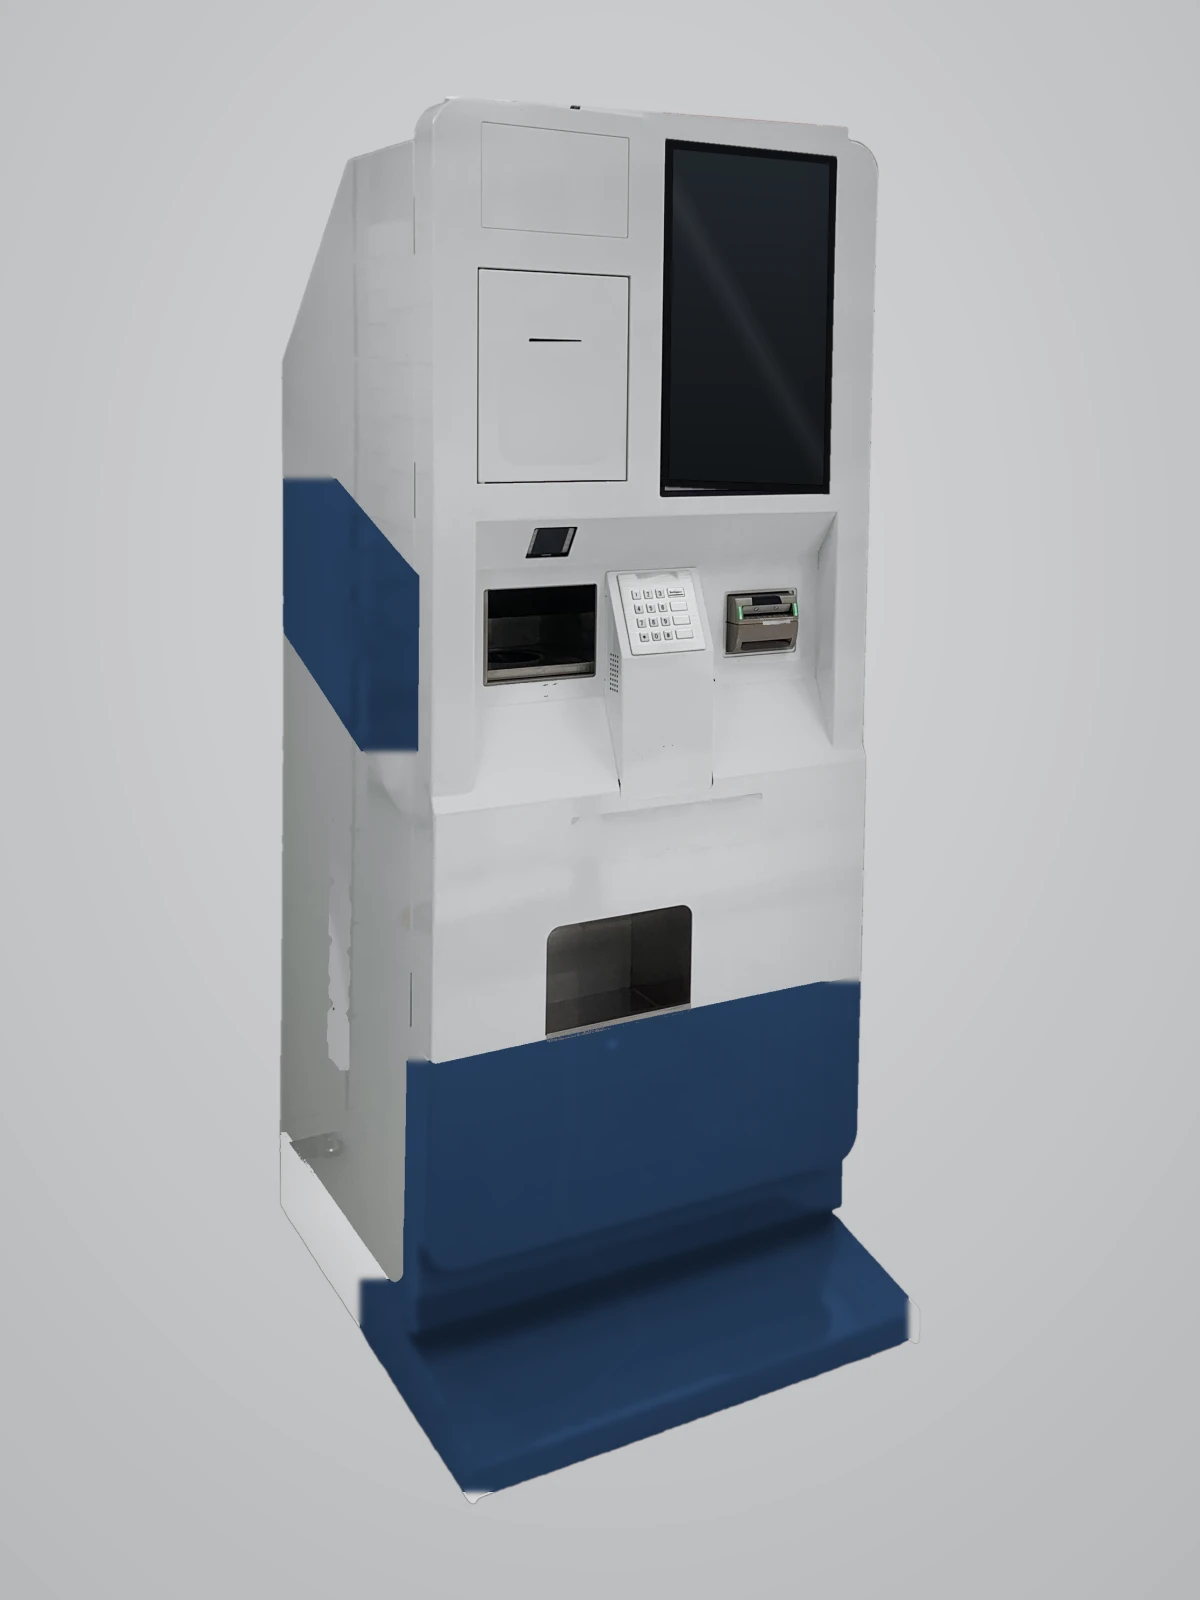
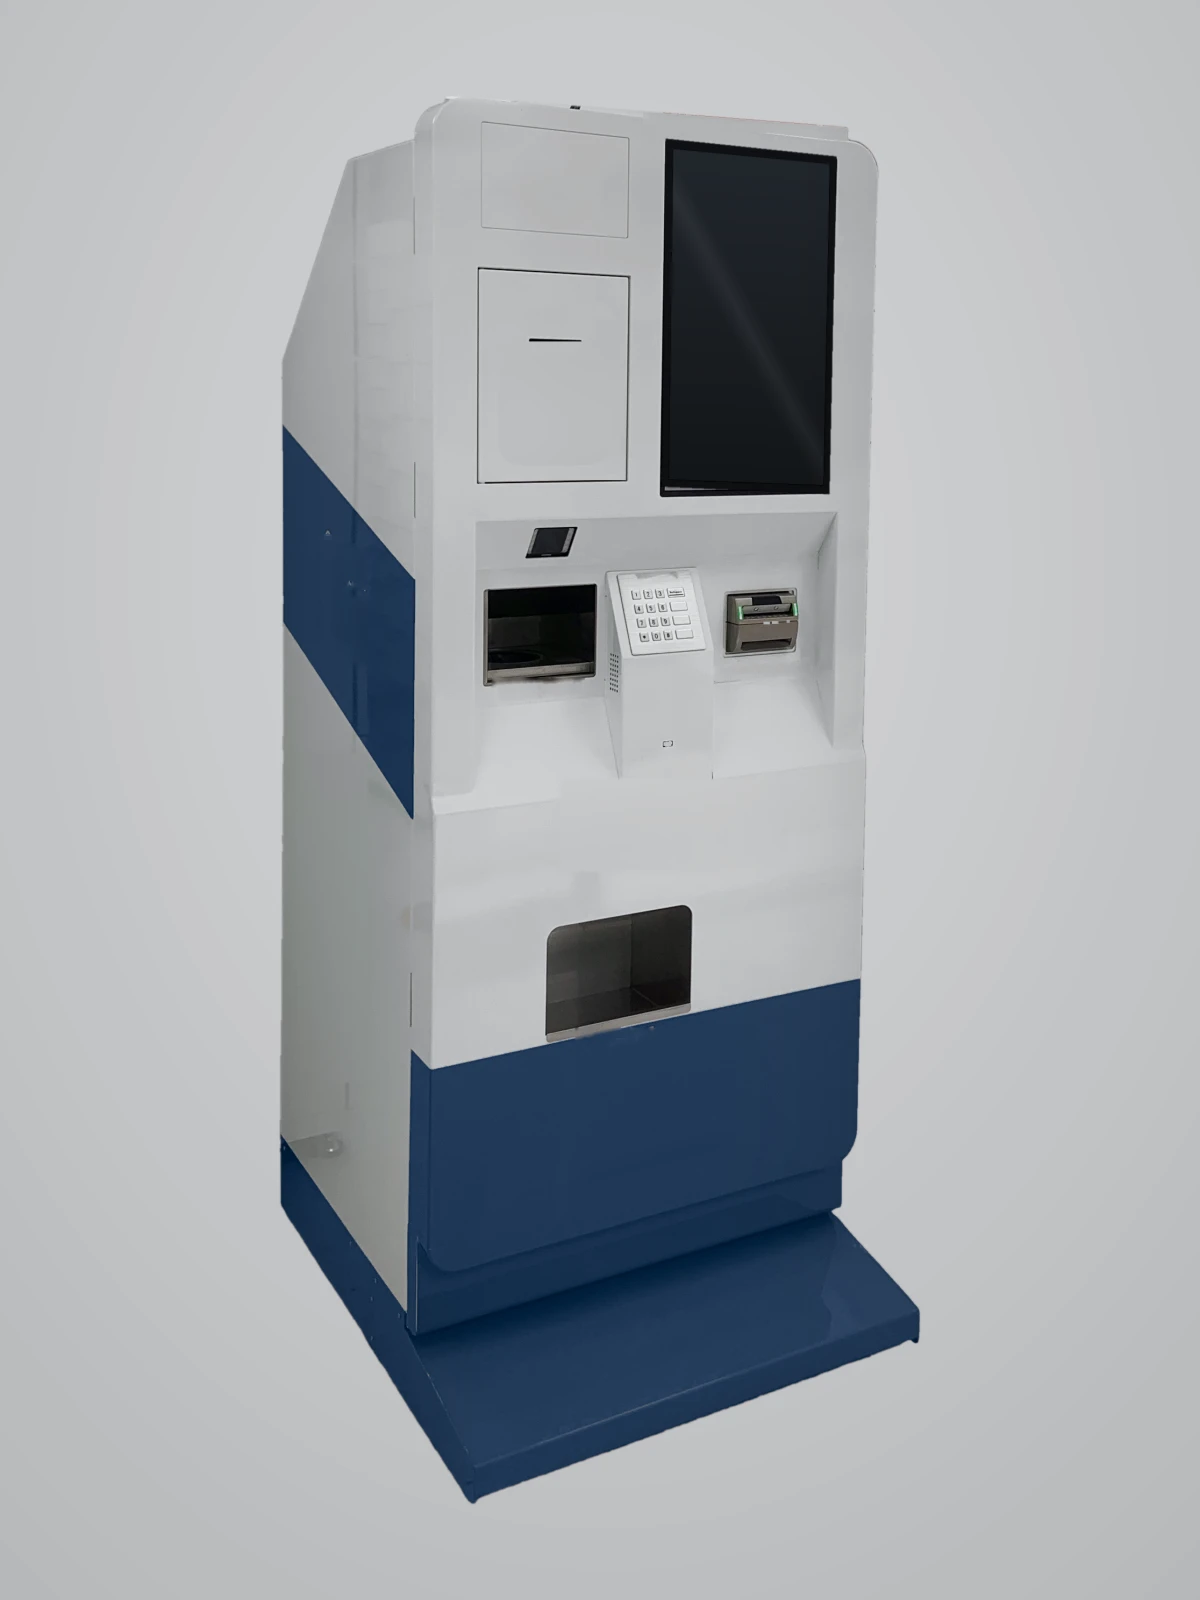
Kiosk photos: shading-preserving navy repaint, lettering removed cleanly; SI: Edge AI self-service kiosk heading

diff --git a/jp/ipc.html b/jp/ipc.html
@@ -287,7 +287,7 @@ header 結束
 <section class="sx-sec alt"><div class="container">
 <h2>受付精算キオスク</h2>
 <p class="lede">台湾最大の小売システムの荷物受取店舗で稼働中。自社で設計・組立・テストを行い、筐体の色、ロゴ、搭載モジュールはお客様ごとにカスタマイズします。</p>
-<div class="sx-product"><figure><img class="sx-main" src="/img/solutions/kiosk-white.webp?v=4" alt="SMC 受付精算キオスク · 正面" width="1200" height="1600"><div class="sx-thumbs"><button type="button" aria-pressed="true" data-src="/img/solutions/kiosk-white.webp?v=4" data-alt="SMC 受付精算キオスク · 正面"><img src="/img/solutions/kiosk-white.webp?v=4" alt="" loading="lazy"></button><button type="button" aria-pressed="false" data-src="/img/solutions/kiosk-white-angle.webp?v=4" data-alt="SMC 受付精算キオスク · 斜め"><img src="/img/solutions/kiosk-white-angle.webp?v=4" alt="" loading="lazy"></button></div></figure><ul>
+<div class="sx-product"><figure><img class="sx-main" src="/img/solutions/kiosk-white.webp?v=5" alt="SMC 受付精算キオスク · 正面" width="1200" height="1600"><div class="sx-thumbs"><button type="button" aria-pressed="true" data-src="/img/solutions/kiosk-white.webp?v=5" data-alt="SMC 受付精算キオスク · 正面"><img src="/img/solutions/kiosk-white.webp?v=5" alt="" loading="lazy"></button><button type="button" aria-pressed="false" data-src="/img/solutions/kiosk-white-angle.webp?v=5" data-alt="SMC 受付精算キオスク · 斜め"><img src="/img/solutions/kiosk-white-angle.webp?v=5" alt="" loading="lazy"></button></div></figure><ul>
 <li>縦型タッチパネルとガイド付きUI</li>
 <li>レシートプリンター</li>
 <li>硬貨投入口とお釣り</li>

diff --git a/ipc.html b/ipc.html
@@ -287,7 +287,7 @@ header 結束
 <section class="sx-sec alt"><div class="container">
 <h2>Check-in and payment kiosk</h2>
 <p class="lede">In service at parcel pickup stores of Taiwan's largest retail system. Designed, assembled and tested in-house; enclosure colour, branding and modules are customized for each customer.</p>
-<div class="sx-product"><figure><img class="sx-main" src="/img/solutions/kiosk-white.webp?v=4" alt="SMC check-in and payment kiosk front" width="1200" height="1600"><div class="sx-thumbs"><button type="button" aria-pressed="true" data-src="/img/solutions/kiosk-white.webp?v=4" data-alt="SMC check-in and payment kiosk front"><img src="/img/solutions/kiosk-white.webp?v=4" alt="" loading="lazy"></button><button type="button" aria-pressed="false" data-src="/img/solutions/kiosk-white-angle.webp?v=4" data-alt="SMC check-in and payment kiosk three-quarter view"><img src="/img/solutions/kiosk-white-angle.webp?v=4" alt="" loading="lazy"></button></div></figure><ul>
+<div class="sx-product"><figure><img class="sx-main" src="/img/solutions/kiosk-white.webp?v=5" alt="SMC check-in and payment kiosk front" width="1200" height="1600"><div class="sx-thumbs"><button type="button" aria-pressed="true" data-src="/img/solutions/kiosk-white.webp?v=5" data-alt="SMC check-in and payment kiosk front"><img src="/img/solutions/kiosk-white.webp?v=5" alt="" loading="lazy"></button><button type="button" aria-pressed="false" data-src="/img/solutions/kiosk-white-angle.webp?v=5" data-alt="SMC check-in and payment kiosk three-quarter view"><img src="/img/solutions/kiosk-white-angle.webp?v=5" alt="" loading="lazy"></button></div></figure><ul>
 <li>Portrait touchscreen with guided UI</li>
 <li>Receipt printer</li>
 <li>Coin acceptor and change</li>

diff --git a/tw/ipc.html b/tw/ipc.html
@@ -280,7 +280,7 @@ header 結束
 <section class="sx-sec alt"><div class="container">
 <h2>自助報到繳費機</h2>
 <p class="lede">已在台灣最大零售系統的包裹取件門市服役。自行設計、組裝與測試；機殼顏色、品牌識別與模組可依客戶需求客製。</p>
-<div class="sx-product"><figure><img class="sx-main" src="/img/solutions/kiosk-white.webp?v=4" alt="瑞新電子自助報到繳費機 · 正面" width="1200" height="1600"><div class="sx-thumbs"><button type="button" aria-pressed="true" data-src="/img/solutions/kiosk-white.webp?v=4" data-alt="瑞新電子自助報到繳費機 · 正面"><img src="/img/solutions/kiosk-white.webp?v=4" alt="" loading="lazy"></button><button type="button" aria-pressed="false" data-src="/img/solutions/kiosk-white-angle.webp?v=4" data-alt="瑞新電子自助報到繳費機 · 斜側面"><img src="/img/solutions/kiosk-white-angle.webp?v=4" alt="" loading="lazy"></button></div></figure><ul>
+<div class="sx-product"><figure><img class="sx-main" src="/img/solutions/kiosk-white.webp?v=5" alt="瑞新電子自助報到繳費機 · 正面" width="1200" height="1600"><div class="sx-thumbs"><button type="button" aria-pressed="true" data-src="/img/solutions/kiosk-white.webp?v=5" data-alt="瑞新電子自助報到繳費機 · 正面"><img src="/img/solutions/kiosk-white.webp?v=5" alt="" loading="lazy"></button><button type="button" aria-pressed="false" data-src="/img/solutions/kiosk-white-angle.webp?v=5" data-alt="瑞新電子自助報到繳費機 · 斜側面"><img src="/img/solutions/kiosk-white-angle.webp?v=5" alt="" loading="lazy"></button></div></figure><ul>
 <li>直立式觸控螢幕與引導式介面</li>
 <li>收據印表機</li>
 <li>硬幣收受與找零</li>

diff --git a/jp/si.html b/jp/si.html
@@ -344,9 +344,9 @@ header 結束
 </div>
 </div></section>
 <section class="sx-sec alt"><div class="container">
-<h2>展示用キオスク</h2>
+<h2>Edge AI セルフサービスキオスク</h2>
 <p class="lede">Pandora エッジ AI コンピューターを中心に SMC が製作した卓上型セルフサービスキオスクです。</p>
-<div class="sx-product"><figure><img class="sx-main" src="/img/solutions/pandora-kiosk-angle.webp?v=2" alt="Project Pandora 展示会で使用した SMC 卓上型キオスク" width="1200" height="1600"></figure><ul>
+<div class="sx-product"><figure><img class="sx-main" src="/img/solutions/pandora-kiosk-angle.webp?v=2" alt="SMC Edge AI セルフサービスキオスク" width="1200" height="1600"></figure><ul>
 <li>4:3 タッチパネルディスプレイ</li>
 <li>前面メンテナンス扉内のレシートプリンター</li>
 <li>2D バーコード・QR コードスキャナー</li>

diff --git a/tw/si.html b/tw/si.html
@@ -337,9 +337,9 @@ header 結束
 </div>
 </div></section>
 <section class="sx-sec alt"><div class="container">
-<h2>展覽用自助機</h2>
+<h2>Edge AI 自助服務機</h2>
 <p class="lede">瑞新電子以 Pandora 邊緣 AI 電腦為核心打造的桌上型自助機。</p>
-<div class="sx-product"><figure><img class="sx-main" src="/img/solutions/pandora-kiosk-angle.webp?v=2" alt="Project Pandora 展覽使用的瑞新電子桌上型自助機" width="1200" height="1600"></figure><ul>
+<div class="sx-product"><figure><img class="sx-main" src="/img/solutions/pandora-kiosk-angle.webp?v=2" alt="瑞新電子 Edge AI 自助服務機" width="1200" height="1600"></figure><ul>
 <li>4:3 觸控螢幕</li>
 <li>收據印表機位於前方維修門內</li>
 <li>一維 / 二維條碼與 QR Code 掃描器</li>

diff --git a/si.html b/si.html
@@ -344,9 +344,9 @@ header 結束
 </div>
 </div></section>
 <section class="sx-sec alt"><div class="container">
-<h2>The exhibition kiosk</h2>
+<h2>Edge AI Self-Service Kiosk</h2>
 <p class="lede">A countertop self-service kiosk built by SMC around a Pandora edge AI computer.</p>
-<div class="sx-product"><figure><img class="sx-main" src="/img/solutions/pandora-kiosk-angle.webp?v=2" alt="SMC countertop kiosk used for the Project Pandora exhibition" width="1200" height="1600"></figure><ul>
+<div class="sx-product"><figure><img class="sx-main" src="/img/solutions/pandora-kiosk-angle.webp?v=2" alt="SMC Edge AI self-service kiosk" width="1200" height="1600"></figure><ul>
 <li>4:3 touchscreen display</li>
 <li>Receipt printer behind a front service door</li>
 <li>2D barcode and QR code scanner</li>

diff --git a/jp/indexsmartchip.html b/jp/indexsmartchip.html
@@ -316,7 +316,7 @@ header 結束
                 <a class="btn btn-danger" href="edge-ai.html">Pandoraを見る</a>
             </div>
         </div>
-        <div class="item " style="background-image:url(/img/solutions/kiosk-slide.webp?v=4); background-position:center;">
+        <div class="item " style="background-image:url(/img/solutions/kiosk-slide.webp?v=5); background-position:center;">
             <div class="text">
                 <h2>セルフサービスキオスク・産業用PC</h2>
                 <p> - 受付精算機を自社で設計・製造</p>

diff --git a/indexsmartchip.html b/indexsmartchip.html
@@ -315,7 +315,7 @@ header 結束
                 <a class="btn btn-danger" href="edge-ai.html">Explore Pandora</a>
             </div>
         </div>
-        <div class="item " style="background-image:url(/img/solutions/kiosk-slide.webp?v=4); background-position:center;">
+        <div class="item " style="background-image:url(/img/solutions/kiosk-slide.webp?v=5); background-position:center;">
             <div class="text">
                 <h2>Self-Service Kiosks &amp; Industrial PCs</h2>
                 <p> - Check-in and payment kiosks, built in-house</p>

diff --git a/tw/indexsmartchip.html b/tw/indexsmartchip.html
@@ -291,7 +291,7 @@ header 結束
                 <a class="btn btn-danger" href="edge-ai.html">認識 Pandora</a>
             </div>
         </div>
-        <div class="item " style="background-image:url(/img/solutions/kiosk-slide.webp?v=4); background-position:center;">
+        <div class="item " style="background-image:url(/img/solutions/kiosk-slide.webp?v=5); background-position:center;">
             <div class="text">
                 <h2>自助機與工業電腦</h2>
                 <p> - 自行設計製造的報到繳費機</p>
